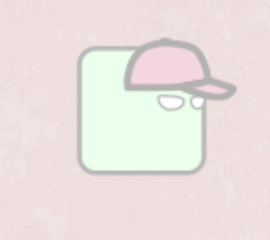
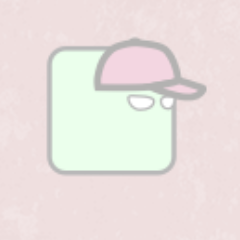
add thumnails to each work exp

Changed region(s): [[0.3792, 0.1458, 0.875, 0.7292], [0.175, 0.175, 0.35, 0.7292]]

diff --git a/src/routes/+page.svelte b/src/routes/+page.svelte
@@ -4,6 +4,9 @@
   import ThreeDWorldImg from '../static/3dworld-preview.png';
   import GamegameImg from '../static/gamegame-preview.png';
   import WavygameImg from '../static/wavygame-preview.png';
+  import DaytracerImg from '../static/daytracer-preview.png';
+  import AMSImg from '../static/airmilesshops-preview.png';
+  import PepperdataImg from '../static/pepperdata-preview.png';
 </script>
 
 <h1>Hi! I'm Kevin, welcome to my site :)</h1>
@@ -11,7 +14,7 @@
 <section>
   <div class="work-container">
     <a href={ResumePdf} target="_blank" rel="noreferrer">
-      <img class="work-image" src={ResumePreviewImg} alt="resume preview" height="100px" />
+      <img class="work-image" src={ResumePreviewImg} alt="resume preview" />
     </a>
     <div class="work-description">
       <strong>Resume</strong>
@@ -21,10 +24,40 @@
 </section>
 
 <!-- work exp -->
-<!-- <section /> -->
+<section>
+  <h2>Toy projects</h2>
 
-<!-- school -->
-<!-- <section /> -->
+  <div class="work-container">
+    <a href="https://daytracer.app/" target="_blank" rel="noreferrer">
+      <img class="work-image" src={DaytracerImg} alt="daytracer logo" />
+    </a>
+    <div class="work-description">
+      <strong>Daytracer.app</strong>
+      Building a desktop application to help Freelancers track their time and assign time to projects
+      so its easier to build invoices – 2021
+    </div>
+  </div>
+
+  <div class="work-container">
+    <a href="https://dashboard.pepperdata.com" target="_blank" rel="noreferrer">
+      <img class="work-image" src={PepperdataImg} alt="pepperdata dashboard preview" />
+    </a>
+    <div class="work-description">
+      <strong>Pepperdata auth component</strong>
+      Built the auth components which features smooth css transisions between different views – 2018
+    </div>
+  </div>
+
+  <div class="work-container">
+    <a href="https://airmilesshops.ca" target="_blank" rel="noreferrer">
+      <img class="work-image" src={AMSImg} alt="airmilesshops logo" />
+    </a>
+    <div class="work-description">
+      <strong>AirMilesShops.ca</strong>
+      Built the website with a team while working at TribalScale – 2017
+    </div>
+  </div>
+</section>
 
 <!-- toy projects -->
 <section>
@@ -32,7 +65,7 @@
 
   <div class="work-container">
     <a href="https://3d.kevindial.com/" target="_blank" rel="noreferrer">
-      <img class="work-image" src={ThreeDWorldImg} alt="3d world preview" height="100px" />
+      <img class="work-image" src={ThreeDWorldImg} alt="3d world preview" />
     </a>
     <div class="work-description">
       <strong>3dworld</strong>
@@ -42,7 +75,7 @@
 
   <div class="work-container">
     <a href="https://gamegame-production.up.railway.app/" target="_blank" rel="noreferrer">
-      <img class="work-image" src={GamegameImg} alt="3d world preview" height="100px" />
+      <img class="work-image" src={GamegameImg} alt="gamegame preview" />
     </a>
     <div class="work-description">
       <strong>Gamegame</strong>
@@ -52,7 +85,7 @@
 
   <div class="work-container">
     <a href="https://wavy-game.kevindial.com" target="_blank" rel="noreferrer">
-      <img class="work-image" src={WavygameImg} alt="3d world preview" height="100px" />
+      <img class="work-image" src={WavygameImg} alt="wavy game preview" />
     </a>
     <div class="work-description">
       <strong>Wavygame</strong>
@@ -95,6 +128,9 @@
     border: 4px solid black;
     border-radius: 4px;
     transition: 0.2s border-color;
+    max-width: 100px;
+    max-height: 100px;
+    object-fit: contain;
   }
   .work-image:hover {
     border-color: rgb(32, 47, 222);
